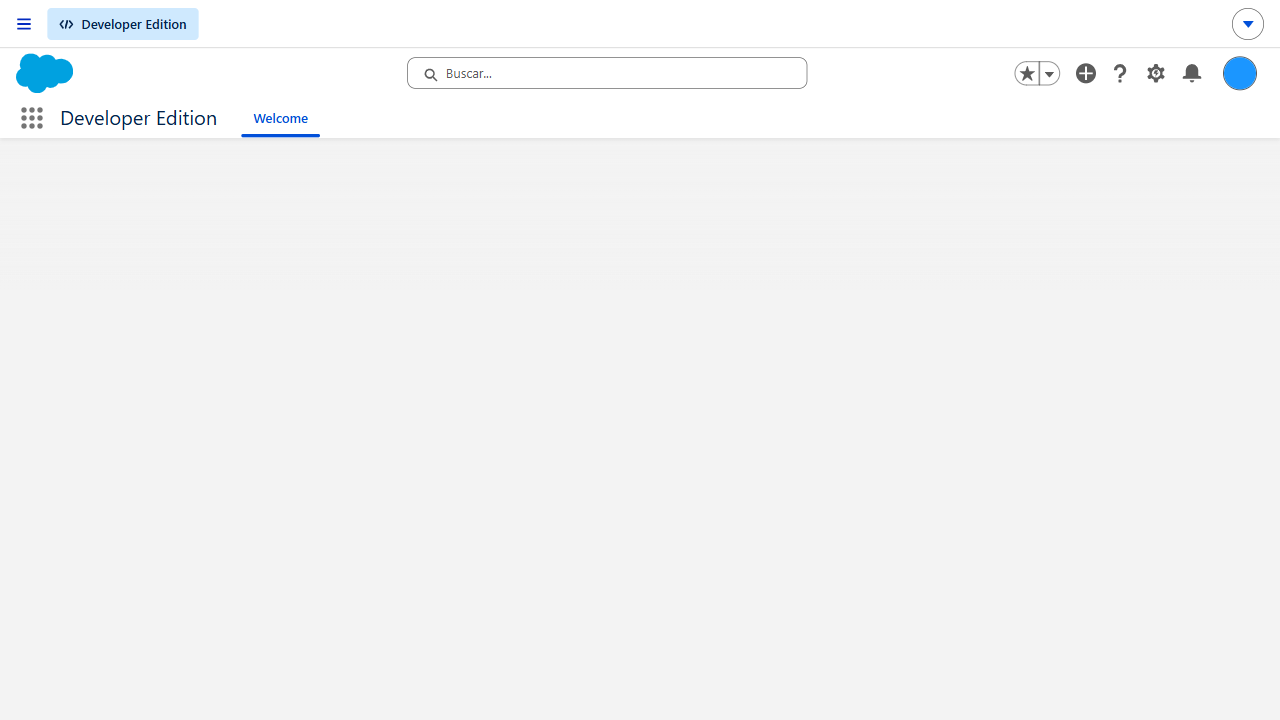
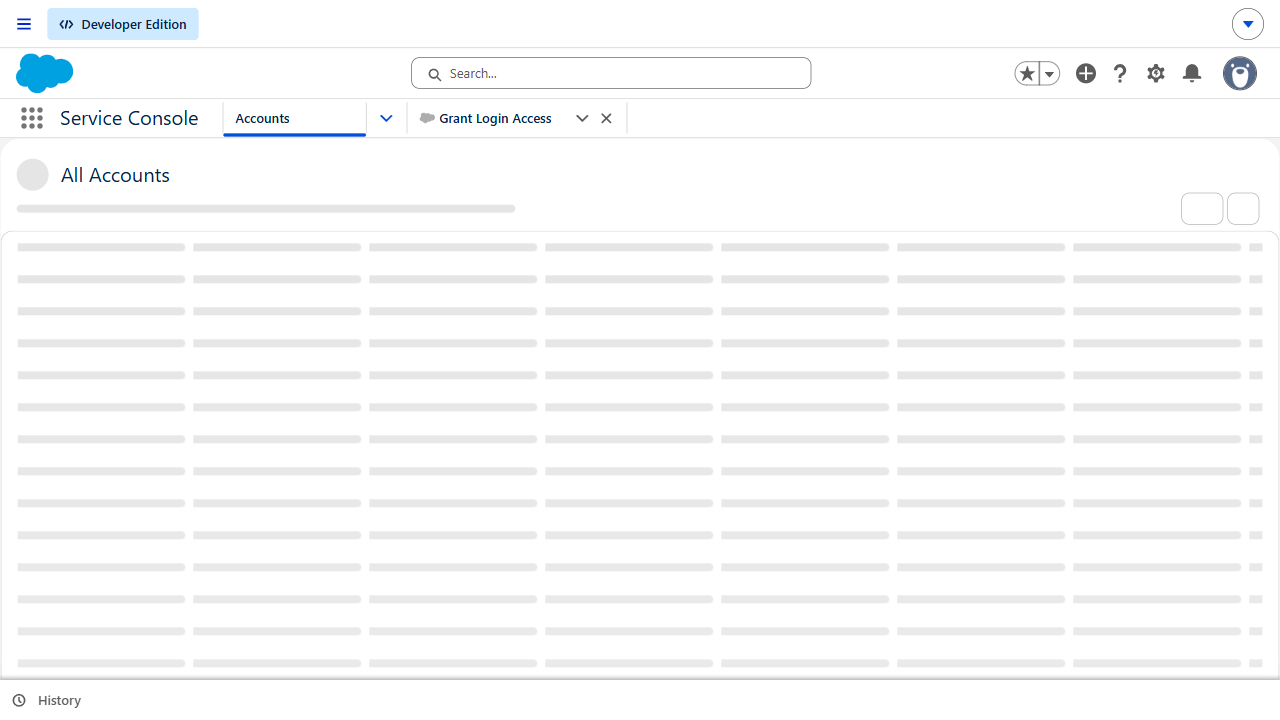
Moved the files to a single file

diff --git a/tests/cookieTest.spec.js b/tests/cookieTest.spec.js
@@ -1,5 +1,51 @@
 const fs = require('fs');
 const {test, expect, chromium} = require("@playwright/test");
+test.beforeAll("Salesforce Successfull Login", async({browser})=> {
+
+    const context = await browser.newContext({
+        userAgent: 'Mozilla/5.0 (Windows NT 10.0; Win64; x64) AppleWebKit/537.36 (KHTML, like Gecko) Chrome/120.0.0.0 Safari/537.36',
+        extraHTTPHeaders: {
+            'Accept-Language': 'en-US,en;q=0.9',
+        }
+    });
+
+    const page = await context.newPage();
+
+    await page.goto("https://login.salesforce.com");
+
+    await expect(page).toHaveTitle("Login | Salesforce");
+
+    await page.locator("#username").fill(process.env.USER);
+    console.log(process.env.USER);
+    await page.locator("#Login").click();
+    
+    await page.locator("#password").fill(process.env.PASSWORD);
+    console.log(process.env.PASSWORD);
+    await page.locator("#Login").click();
+
+    await page.pause();
+    // const verificationCode = await askForCode();
+    // console.log("Code entered:", verificationCode);
+    // await page.pause();
+    
+    // await page.locator("#emc").fill(verificationCode);
+    await page.locator("#save").click();
+
+
+    // await expect(page).toHaveTitle("Lightning Experience | Salesforce")
+    // await page.waitForLoadState("networkidle");
+    const cookies = await page.context().cookies();
+    fs.writeFileSync('session/cookies.json', JSON.stringify(cookies, null, 2));
+
+    await page.screenshot({ 
+        path: "screenshots/after-login.png",
+        fullPage: true  // captures full page
+    });
+
+
+
+    await context.close();
+});
 
 test("Salesforce Login With Saved Session", async ({ page }) => {
     // Check if cookies file exists
@@ -21,7 +67,9 @@ test("Salesforce Login With Saved Session", async ({ page }) => {
         await page.locator("#password").fill(process.env.PASSWORD);
         console.log(process.env.PASSWORD);
         await page.locator("#Login").click();
-        await expect(page).toHaveTitle("Lightning Experiences | Salesforce")
+
+        await page.goto("https://orgfarm-ae6cc86335-dev-ed.develop.lightning.force.com/lightning/o/Account/list?filterName=AllAccounts");
+        await expect(page).toHaveTitle("All Accounts | Accounts | Salesforce")
         await page.screenshot({ path: "screenshots/session-loaded.png" });
     } else {
         console.log("❌ No cookies found - Please run the login test first!");

diff --git a/README.md b/README.md
@@ -52,6 +52,21 @@ npx playwright show-report
 
 ---
 
+## Cookie / MFA Test (`cookieTest.spec.js`)
+
+To use this test you need to run it in **headed mode** so you can interact with the MFA prompt:
+
+```bash
+npx playwright test tests/cookieTest.spec.js --headed
+```
+
+When the MFA code input appears:
+
+1. Check your email for the MFA code.
+2. **Paste** the code into the Playwright console — do **not** click *Save* manually; let the test handle it.
+
+---
+
 ## Project Structure
 
 ```
